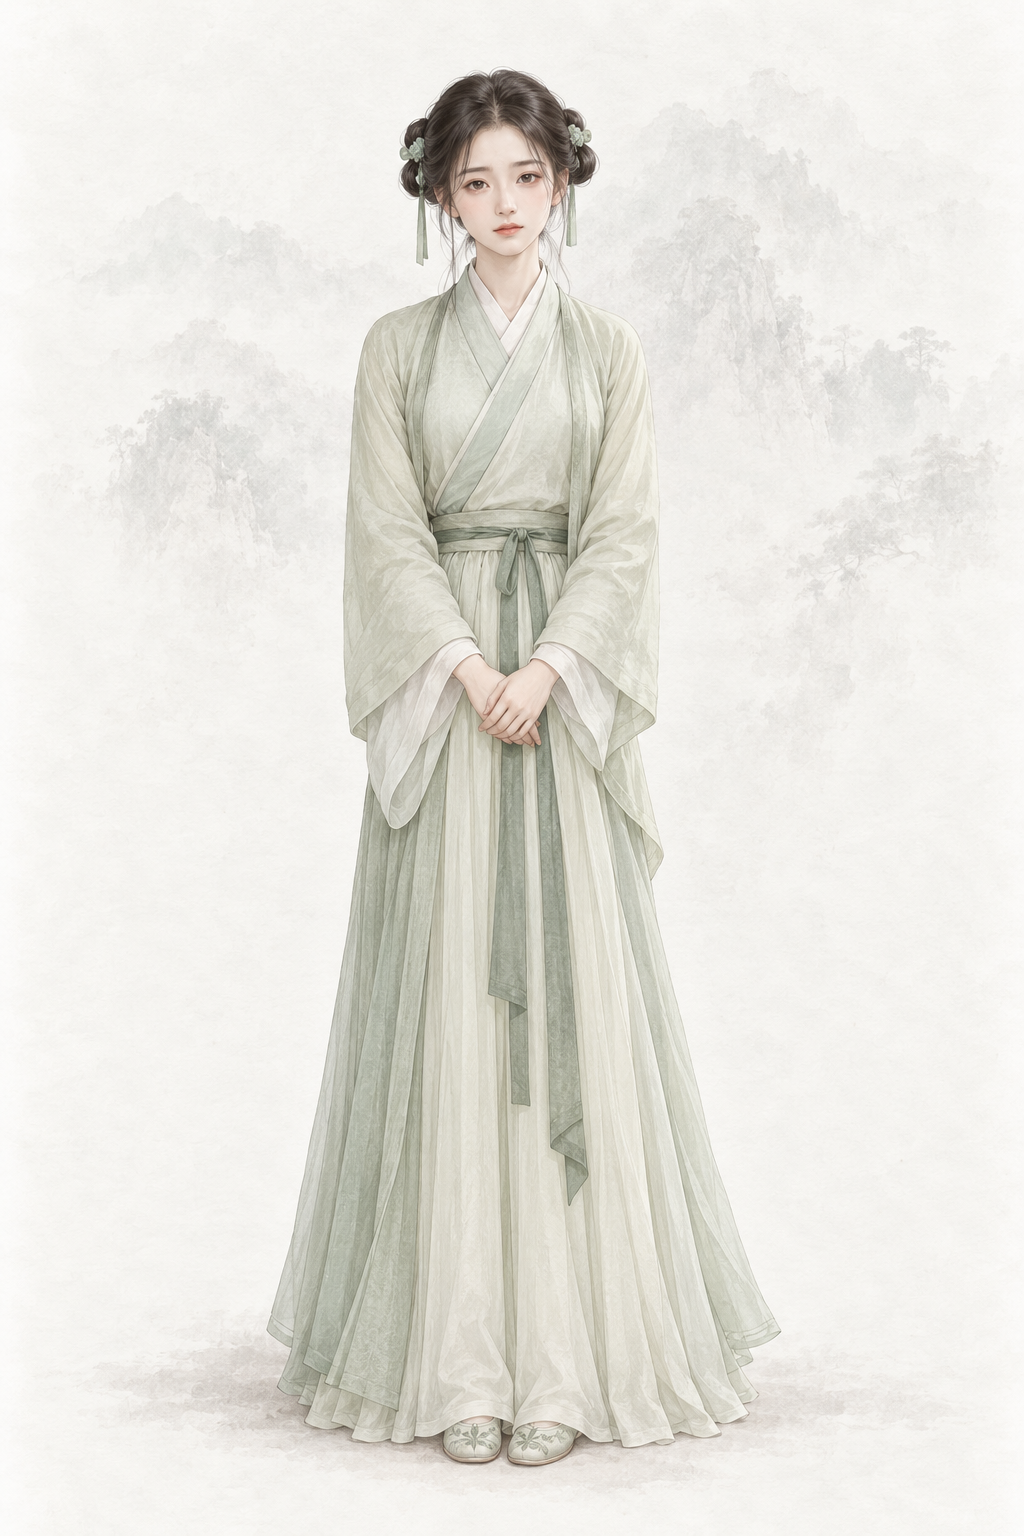
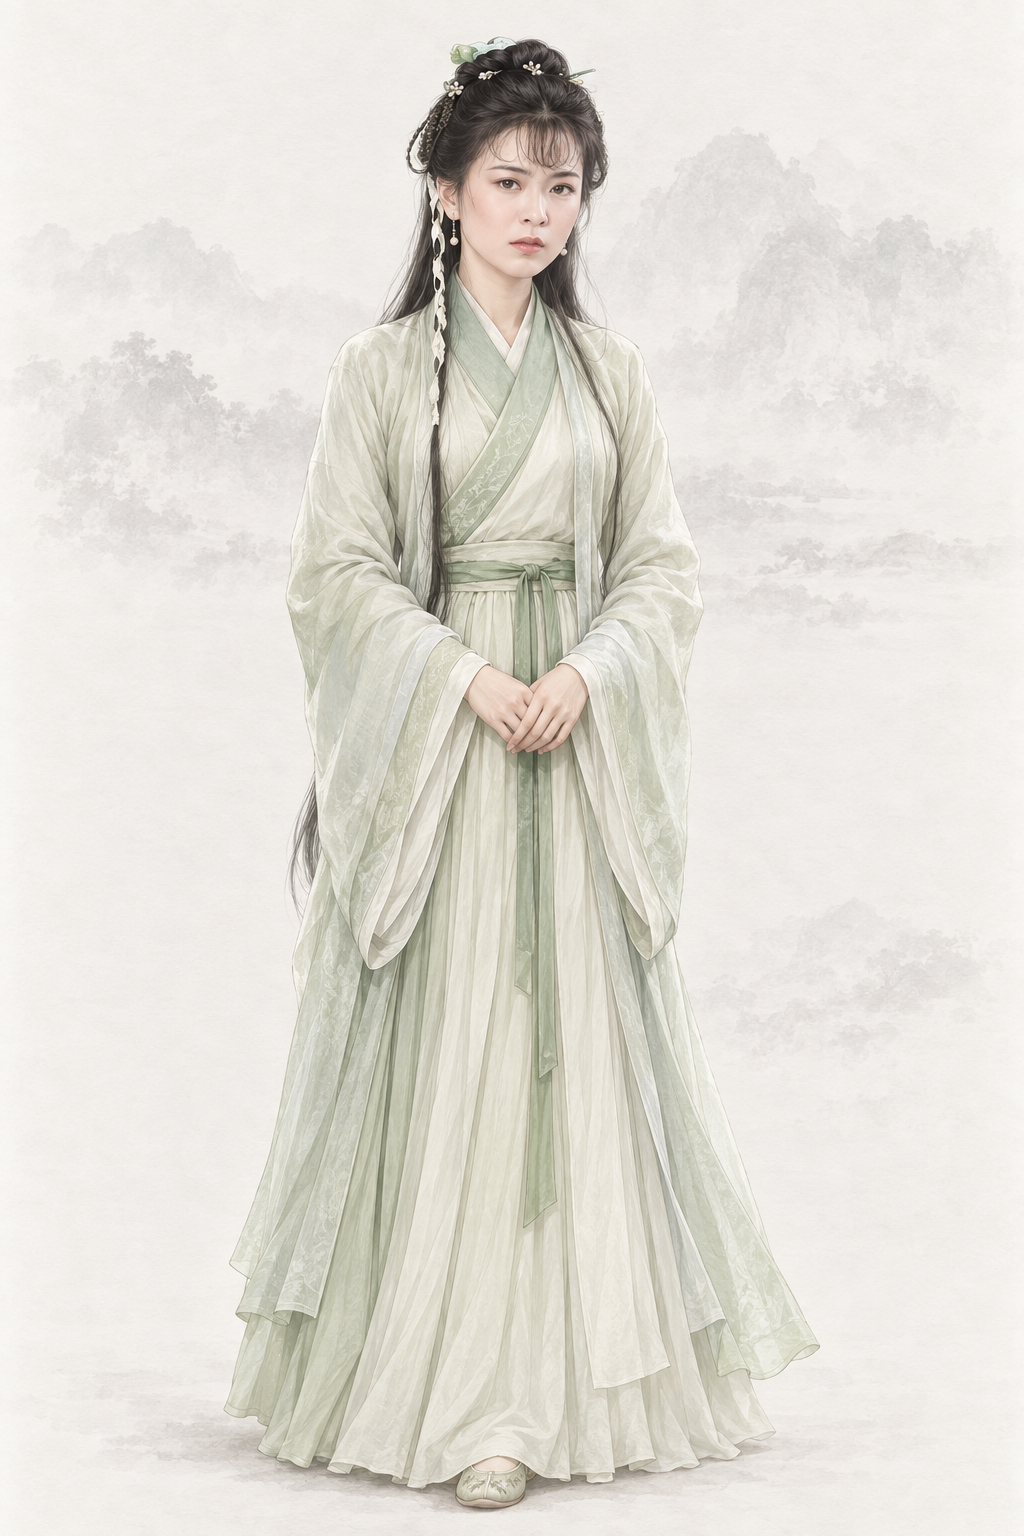
assets(character): por_npc_gongsunlve__ch03_youth_base 公孙绿萼（codex · AR-32 经典剧照 + 基线）
参考 1995 TVB《神雕侠侣》 剧照（gongsunlve_1995_suyuhua.jpg）与两张同性别基线重出；提示词写回、frontmatter 加 classic_ref。

diff --git a/assets/default/prompts/characters/ch03-shendiao/npc_gongsunlve.md b/assets/default/prompts/characters/ch03-shendiao/npc_gongsunlve.md
@@ -18,13 +18,46 @@ references:
 status: redo
 realism_revision: user_identity_pose_20261001
 redo_reason: "旧图以剧照为第一身份参考生成（A 级肖像风险；REVIEW-portraits-A 待作者裁定项，按默认重出），按原著外貌用文字原创重做"
-reference_upload: []
+reference_upload:
+- .agents/coord/imagegen-reference/identity-20261001/shendiao/gongsunlve_1995_suyuhua.jpg
+- assets/default/baseline/character/female/ref_npc_wangyuyan__ch01_base01.png
+- assets/default/baseline/character/female/ref_npc_xiaolongnv__ch03_base01.png
 codex_prompt_rev: 2026-10-02
+classic_ref:
+  version: 1995 TVB《神雕侠侣》
+  stills:
+  - .agents/coord/imagegen-reference/identity-20261001/shendiao/gongsunlve_1995_suyuhua.jpg
+  crop:
+    gongsunlve_1995_suyuhua.jpg:
+    - 0
+    - 0
+    - 640
+    - 425
 ---
 
 # 公孙绿萼 · 人物写实修正
 
 ## Gemini 提示词
+
+> 2026-10-02 AR-32 重出（5 号出图员，codex exec · image_gen）：主要角色改为参考经典影视版剧照加项目基线生成。上传顺序：1995 TVB《神雕侠侣》 剧照 1 张（gongsunlve_1995_suyuhua.jpg），最后两张为同性别画风基线（缩小版 JPEG）。剧照只借造型、气质与面部特征，画面按项目画风重绘、不复制照片。上一版（AR-31 文字版）保留在下一节作历史。
+
+```text
+生成一张 2:3 竖幅全身人物立绘：单人、单一视角、完整全身——头顶、双手、双脚和手中器物的两端都在画面内，四周留出自然空白；人物站姿自然，身体基本朝向正面，头部端正（不歪头、不仰不俯），镜头平视。
+【画风】写实手绘古风人物插画，与本项目写实武侠角色立绘同一画风，像功力深厚的画师用细腻笔触画出的真实美人。手绘插画质感，不是 CG 渲染：不要过度光滑的皮肤、完美对称的五官、塑料高光、过度锐利的发丝；保留自然的笔触和细微不完美。肌肤细腻自然，看得见极细的肤理和自然的左右不对称，不磨皮、不油亮、不打粉；头发是一缕缕自然的发丝和少量碎发；布料看得出经纬纹理、厚薄和自然垂坠的褶皱，干净完整；整体设色低饱和、雅致；柔和的自然光从左上方照来，明暗过渡自然，不打舞台光、轮廓光或美颜柔光。不是照片，不是三维渲染，不是动漫或游戏 CG，也不是油画（没有厚涂笔触和画布纹理）。
+【背景】不透明的暖浅灰色纸底，只在远处有极淡的水墨远山和薄雾，大面积留白；人物与背景明暗分明、轮廓边缘干净完整（后续要自动抠图），水墨和纸纹只在背景里，不侵入人物和衣服；脚下只有很淡的一点接触阴影。
+【人物】公孙绿萼，《神雕侠侣》绝情谷主公孙止的女儿；在丹房与地穴救援杨过的阶段。温柔善良、心思细腻。
+【年龄与体态】约二十岁的成年年轻女子，身形纤秀。成年女性的五官骨相与身体比例（约 7 头身），衣着完整端庄、不透明、不暴露、不性感化。
+【经典造型】以九十年代中期经典港剧里那位温柔善良的公孙绿萼为蓝本（见剧照）：清秀温婉的脸、温柔明亮又带一点忧伤的眼睛；乌发挽髻、髻上点缀小巧的珠饰，其余长发垂在背后；一身淡绿衣裙。
+【面容】清秀温婉的鹅蛋脸；眉毛细长；一双温柔明亮的眼睛，眼神带一点羞怯和善意；鼻梁秀直；唇色淡红；肌肤白皙。清秀温柔的美人（原创扩展）。
+【发式】乌发挽成简单的发髻，插一支碧玉簪，其余长发垂在背后。
+【服饰】淡绿色交领右衽窄袖衫、浅绿长裙、绿色丝绦，平底绣鞋；衣色像花萼一样清淡（呼应「绿萼」之名）。
+【道具】空手，双手在身前轻轻相握。
+【姿态与神情】安静站立，神情温柔、带一点忧伤。
+【不要】画面里不要任何文字、题款、印章、签名、水印、边框、分格或多视图；不要第二个人；不要幼态（童颜、娃娃脸、婴儿肥、儿童或少年身材、大头小身）；不要塑料感皮肤、磨皮美颜、网红脸（尖下巴大眼高鼻的模板脸）、过度对称、浓妆、偶像式打光、蜡像感；不要照片质感、三维渲染或动漫大眼；不要歪头、斜镜头；不要多指、缺指（设定的伤残除外）、手与器物粘连或悬空；汉式交领必须右衽（穿着者的左襟压在右襟上），不要左衽（设定为少数民族服制的除外），不要水平镜像；不要现代物品、发光特效、法阵或能量光。不要情花或花枝；不要血迹；不要浓妆；不要娃娃脸。
+【参考图】随提示词上传的参考图共 3 张，按顺序：第 1 张是这个角色经典影视造型的剧照：借鉴其发型、服饰、配色、标志道具、气质和面部特征，让人一眼认出是这个角色；但必须重新绘制成本项目的画风，不要照片质感，不要照搬剧照的构图、光影、背景和姿势，也不要做成照片修图；剧照与上文文字有出入时，以上文文字为准。最后两张是本项目的立绘画风基线：画风、用色、光线、质感和暖浅灰纸底加淡水墨的背景以它们为准——精细写实的数字手绘插画，不是油画，不要厚涂笔触和画布纹理；基线图里人物的长相、年龄、发型、服饰和姿势一律不取。
+```
+
+## AR-31 文字版 Gemini 提示词（2026-10-02 凌晨；AR-32 剧照版之前，历史，不再用于出图）
 
 > 2026-10-02 按原著外貌以文字重写（文字稿由 1 号出图员起草，3 号出图员写回并出图；codex exec · image_gen）：旧图以剧照为第一身份参考生成，属 `tools/agents/reports/REVIEW-portraits-A-ch00-04.md` 的「剧照派生 A 级配角 · 待作者裁定」项，协调者按默认转为本轮重出。不写演员名、不用剧照、原创面孔，禁止幼态；出图只上传两张同性别基线立绘作画风参考，不上传身份参考（`reference_upload: []`）。frontmatter 的 `references` 与本节以下的旧提示词是旧出图管线的历史记录，不再用于出图。
 
